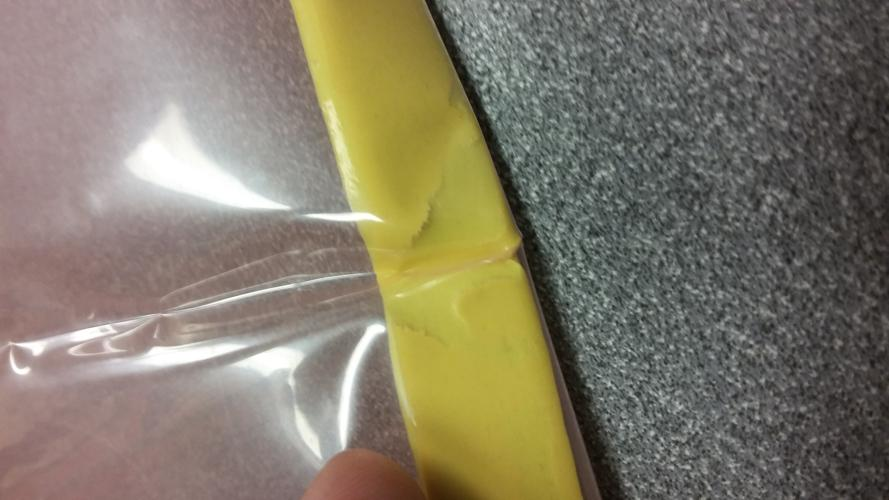
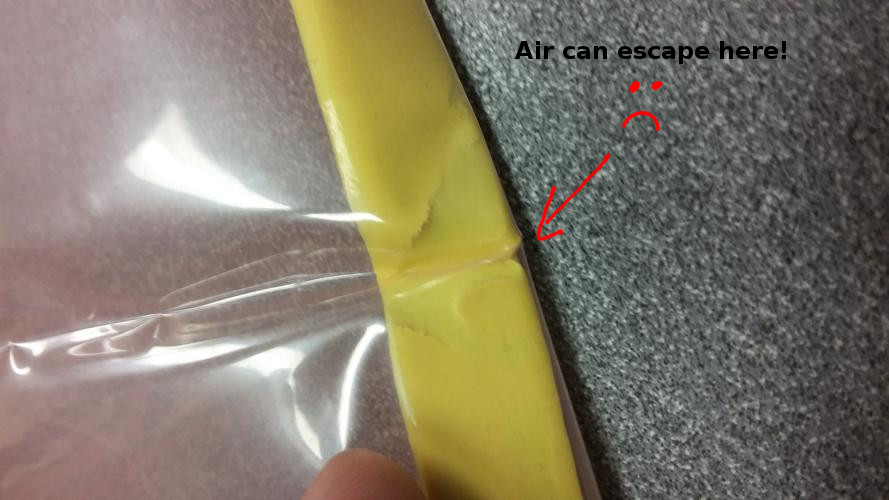
updated module MFG procedure and README

diff --git a/doc/mfg/moduleProcedure.md b/doc/mfg/moduleProcedure.md
@@ -1,30 +1,50 @@
 # Carbon Fiber Layup Procedure
 ----------------------------
-This is the procedure to make a cylindrical module. If you find any steps which are unclear, erroneous, unnecessary, or need improvement, please add an issue for it on this repo. 
+This is the procedure to make a cylindrical module. If you find any steps which are unclear, erroneous, unnecessary, or need improvement, please [add an issue for it on this repo](https://github.com/psas/lv3.0-airframe/issues). 
+
+This procedure takes about 5 hours, if you have 3 people working on it, not counting the 5 hour cure cycle. If you're following this procedure for the first time, it's probably going to be closer to 7 or 8 hours. If you *really* know what you're doing, one person can do it, but it's not nice to make one person work for 10 hours straight. If you're trying modifications to this procedure, it's a good idea to do so on a smaller mandrel with no coupling rings, since that takes off a lot of the time. 
 
 ## Materials
 
+#### Consumables
 1. [Orca skin](http://www.fiberlay.com/upload/techd-2522041-252204_OrcaSkin_Data.pdf)
 1. [Orca seal](https://www.google.com/url?q=http://www.fiberlay.com/upload/techd-252203-252203_OrcaSeal_Data.pdf&sa=D&ust=1465469878478000&usg=AFQjCNHsERyZyLExl99CyF9hUNt7pAivVQ)
 1. Shrink tape
 1. Non-perforated release film
 1. Vacuum bag sheets
-1. Vacuum bagging tape
+1. Vacuum bagging tape ("goop tape")
 1. Vacuum bagging breather material
-1. Vacuum pump (of some sort)
-1. Air hose
 1. 320 grit sandpaper
 1. 600 grit sandpaper
 1. 1500 grit sand paper
 1. Acetone
 1. Powderless nitrile gloves
-1. Insulated gloves (gardening gloves will work)
-1. A small piece of  acrylic (optional)
+1. A small piece of  acrylic (optional)
 1. Paper towels
+1. kapton tape or flash tape
+
+#### Layup Pieces
+1. Prepreg carbon fiber (Satin weave is preferable. Anything but unidirectional will do. We use Cytec BMS 8-297 3K-70-PW TY4 CL2, which is the big yellow roll in the EB 480 freezer.)
+1. Structural adhesive (We use Cytec's **Meltbond 1515**-3M, which bonds to CF, nomex, and aluminum. We know that 3M's AF-126 **DOES NOT WORK.**)
+1. A male coupling ring (aluminum)
+1. A female coupling ring
+1. 1/4" thick overexpanded nomex honeycomb
+1. A male dummy ring
+1. A female dummy ring
+1. An aluminum mandrel
+
+#### Tools
+1. Vacuum pump (we use a venturi pump)
+1. Air hose
+1. Insulated gloves (gardening gloves will work)
 1. Utility knife
 1. Scissors
+1. Mandrel-to-dummy ring screws (what size?)
+1. Dummy ring-to-coupling ring screws (what size?)
 
 ## Preparation
+
+All of these steps can be done in parallel. If you have the space and people, you should do them in parallel. 
 
 ### Mandrel preparation
 
@@ -40,13 +60,14 @@ In the figure below is shown the waxed mandrel along with a container of Orca Sk
 1. Apply 7 coats of orca skin, 10 minutes between coats
 1. Wait 1 hour
 
- ![the waxed mandrel on the preparation table, along with a container of Orca Skin, and Orca Seal.](../img/skinnedMandrel.jpg)
+ ![the waxed mandrel on the preparation table, along with a container of Orca Skin, and Orca Seal.](../img/skinnedMandrel.jpg)
 
 #### Dummy ring preparation
 
 1. Wet sand with 600 grit paper to remove any stray adhesive from the previous layup
 1. Clean with acetone or water
 1. Apply mold release to the female dummy ring
+1. Apply a strip of kapton or flash tape to the female dummy ring, so that it overhangs the outside edge of the coupling end by 1 or 2 mm. 
 
 ### Coupling ring preparation
 
@@ -67,26 +88,38 @@ These steps are best done while you're waiting for the anti-galvanic juice to ch
 1. Select the appropriate cutting template for the desired film or fabric
 1. Lay the film or fabric over the plastic surface of the work bench
 1. Place the template over the film or fabric
-1. While one person moderately presses down on the template, another person should cut along the edges with a utility knife. It also works well to place weights on the templates while cutting.
+1. While one person moderately presses down on the template, another person should cut along the edges with a utility knife. It also works well to place weights on the templates while cutting, especially when cutting the adhesive.  
+![using weights to keep the adhesive template from slipping](../img/templateWeights.jpg)  
+1. Lift up the outside portion of the cut before removing the template, to check that the cut is complete. If it isn't, slice the remaining material. 
+![carbon fiber being lifted away from the template, showing that the cut around the corner is complete](../img/templateCutCheck.jpg)  
+1. Cut 1/4" x 20" strips of adhesive for each coupling ring. Make sure they are no wider than 1/4".
+    1. This can easily be done by placing the edge of a template on a **straight-cut** piece of adhesive and using the depth gauge of a pair of calipers to tweak and check the width of a strip. 
 
-When cutting the overexpanded nomex honeycomb core material, make sure the template is oriented correctly. You should only be cutting single rows of cells (don't cross from one row to another). The overexpanded cells only bend in one direction. Make sure the template is oriented so that the nome will be able to bend around the cylinder.
+When cutting the overexpanded nomex honeycomb core material, make sure the template is oriented correctly! The overexpanded cells only bend in one direction. Make sure the template is oriented so that the nomex will be able to bend around the cylinder. You should only be cutting single rows of cells (don't cross from one row to another).
+
+To cut the carbon fiber, it works well the place the corner of the template on the corner of one of the cells (you'll have to remove one of the layers of peel ply). The template can then be rotated so that it perfectly lines up with the rows and columns of the fabric. This doesn't really work with fiberglass. 
 
 ## Assembly
+
+These steps basically all have to be done in series. The layup table really only accommodates 2 or 3 people, so just switch out people as appropriate.  
 
 ### Layers
 
 Shown below are two stages in the layup process. figure 2 shows the mandrel has been sanded and chemically treated. The first wrap around layer of release film has been added. In figure 3 below the first layer of carbon fiber has been added over the release film.
 
-1. Put on powderless nitrile gloves
-1. Screw the coupling rings into the dummy rings
+1. Put on *powderless* nitrile gloves
+1. Screw the coupling rings into the dummy rings, puncturing the layer of tape applied to the female ring.  
+![a screw going through a layer of flash tape to attach the female dummy ring to the male coupling ring](../img/screwThroughTape.jpg)  
+1. Cover all the screw heads with kapton tape. This will prevent any epoxy or adhesive from flowing into them.
 1. Without touching the molding surface of the mandrel, slide the ring assemblies on to the mandrel
-1. Screw the dummy rings to the mandrel
+1. Screw the dummy rings to the mandrel. It works best to place the mandrel upright, with one person sliding down the dummy+coupling ring from the top and another person fastening the screws. 
 1. Place the mandrel back on the mandrel holder
-1. Lay a layer of blue release film on the mandrel. It should span the entire molding surface of the mandrel and not overlap with the coupling rings (figure 2).
-![mandrel wrapped in release tape](../img/mandrelReleaseFilm.jpg)
-1. Lay the adhesive strips onto the lower adhering surface of each coupling ring. Make sure that the adhesive strips are slightly skinnier than the adhering surface of the coupling rings to prevent adhesive from flowing onto the mandrel.
-1. Lay the inner layer of carbon fiber onto the mandrel. It should overlap the adhesive strips completely, butting up flush against the step of the rings (figure 3). It should overlap itself by about an inch. Don’t worry too much about small wrinkles, they will be automatically smoothed during the cure cycle. Do not tug or pull on the CF in an attempt to remove wrinkles. If you need to remove large wrinkles, re-lay the CF instead.
-![The first layer of carbon fiber added to the layup](../img/placeHolder.jpg)
+1. Lay a layer of blue release film on the mandrel. It should span the entire molding surface of the mandrel and not overlap with the coupling rings. (This can be done by cutting the release film with the inner layer template and removing 3/4")
+![mandrel wrapped in release film](../img/mandrelReleaseFilm.jpg)
+1. Lay the adhesive strips onto the lower adhering surface of each coupling ring. Make sure that the adhesive strips are no larger than 1/4". The extra 1/8" of flange is to prevent the adhesive from flowing onto the mandrel when hot.  
+![a 1/4" strip of Meltbond 1515-3 adhesive on the female coupling ring](../img/layupBeforeCF.jpg)  
+1. Lay the inner layer of carbon fiber onto the mandrel. It should overlap the adhesive strips completely, butting up flush against the step of the rings (see below). It should overlap itself by about an inch. Don’t worry too much about small wrinkles, they will be automatically smoothed during the cure cycle. Do not tug or pull on the CF in an attempt to remove wrinkles. If you need to remove large wrinkles, re-lay the CF instead.
+![The first layer of carbon fiber added to the layup](../img/layupDuringFirstCF.jpg)
 1. Lay the inner adhesive layer over the carbon fiber. Rotating the mandrel while someone holds down the adhesive (wear powderless nitrile gloves) works well here.
 1. Once the adhesive is well aligned, peel a section of it back. Someone should still be holding it down.
 1. Roll the adhesive back down onto the carbon fiber
@@ -105,13 +138,23 @@ Shown below are two stages in the layup process. figure 2 shows the mandrel has 
 
 ### Shrink Tape
 
+1. If you're using perforated shrink tape:
+    1. Cover the layup in a layer of release film, enough to overlap itself and the coupling rings by at least 1/2". If you don't do this, the module will end up with "goosebumps," which make the shrink tape much harder to remove and the module much harder to sand.  
+    ![goosebumps poking through the perforated tape](../img/gooseBumps.jpg) 
+1. If you're using shrink tape with no built-in release compound:
+    1. Cover the layup in a layer of release film, enough to overlap itself and the coupling rings by at least 1/2". If you don't do this, the shrink tape will bond to the outer layer, making removal and sanding basically impossible.   
+    1. Tape-down that layer with some kapton at the ends and in the middle.   
+    Note: It may work better to use peel-ply instead of release film for this step. It's worth investigating.
 1. Arrange the shrink tape on a spool so that the outer surface may be easily applied to the layup. (underhand from the spool; overhand onto the layup)
 1. Set up a lamp, illuminating the layup.
 1. Use kapton or flash tape to fix the shrink tape onto one of the dummy rings. Use lots of tape to fix it in place. If it comes loose, the layup will be ruined.
 1. Use your dominant hand to tension the shrink tape against the layup.
 1. Use your off hand to rotate the layup, wrapping the shrink tape around it.
-1. Adjust the position of your dominant hand so that each turn of the shrink tape overlaps the previous one by 50%. This should result in the appearance that the surface is covered in a single sheet of double-thick shrink tape. If there are any gaps or triple-overlaps, you must roll the layup backwards and redo those sections. Such defects will become ribbing in the final module.
-1. Every 3 or 4 rotations, add a piece of kapton or flash tape to save your progress. Adjust the positions of the lamp and tape spool to your convenience as you go.
+1. Adjust the position of your dominant hand so that each turn of the shrink tape overlaps the previous one by 50%. This should result in the appearance that the surface is covered in a single sheet of double-thick shrink tape. If there are any gaps or triple-overlaps, you must roll the layup backwards and redo those sections. Such defects will become ribbing in the final module.  
+![This is too much overlap. Don't do this!](../img/overlappingTape.jpg)  
+![This is not enough overlap. Don't do this!](../img/underlappingTape.jpg)  
+1. Every 3 or 4 rotations, add a piece of kapton or flash tape to save your progress. Adjust the positions of the lamp and tape spool to your convenience as you go.  
+![A piece of kapton tape preventing the shrink tape from unraveling.](../img/tapeCheckpoint.jpg)  
 1. When you reach the end of the opposite dummy ring, cut the shrink tape and securely fix it to the dummy ring using kapton or flash tape.
 1. Add 3 strips of kapton or flash tape spanning the entire length of the module to fix the shrink tape against nudges during the vacuum bagging process.
 1. If you are using perforated shrink tape, add a layer of non-perforated release film to the outside of the layup, using kapton or flash tape to hold it in place.
@@ -139,9 +182,9 @@ After adding the final layer of release film, the layup is ready to be vacuum ba
 1. Carefully apply goop tape to the vacuum hose, so that it may seal to the tubes
 1. Carefully apply a ring of goop tape to the inner surface of the outer tube
 1. Seal the inner and outer tubes to each other
-1. Gently pinch any air channels out of the goop tape, taking special care to make sure the hose and tubes form a complete seal. Make sure there is no air channel formed by the overlap of the outer tube with itself.
-
-![layup wrapped in final layer of release tapeand ready to be vacuum bagged.](../img/placeHolder.jpg)
+1. Gently pinch any air channels out of the goop tape, taking special care to make sure the hose and tubes form a complete seal. Make sure there is no air channel formed by the overlap of the outer tube with itself.  
+![An example of an incomplete seal in the vacuum bag.](../img/badSeal.jpg)  
+![layup wrapped in final layer of release tape and ready to be vacuum bagged.](../img/placeHolder.jpg)
 
 ## Curing
 
@@ -170,23 +213,23 @@ After adding the final layer of release film, the layup is ready to be vacuum ba
 1. Remove the hose, diaper, and release film from the mandrel and dispose of them
 1. Unscrew the dummy rings from the mandrel
 1. Place the layup vertically on the table and slide the module up. It should easily slide off. If it doesn’t wait until it cools to room temperature. If it still does not come loose:
-1.
-1. Place four mandrel removal blocks on the floor
-1. Place the mandrel in the blocks, using insulated gloves
-1. Place a piece of wood on the top of the mandrel
-1. Tap the piece of wood with a hammer to release the mandrel from the module
-1. With one person holding the mandrel with insulated gloves, gently pull and wiggle the module off the mandrel in the direction of the male ring. Take care not to damage the module or mandrel. If necessary, run cold water through the inside of the mandrel. This will thermally shrink the mandrel, allowing it to slide off easier.
-1. If the module remains stuck, place it on a piece of plywood with the removal blocks holding it up.
-1. Place the wooden plug inside the mandrel on top.
-1. Place a 2x4 on the plug
-1. Hammer on the 2x4 with a large weight (\~50 lb) to slowly separate the mandrel and module. Stack chunks of 2x4 under the removal blocks to get more height.
-1. If you need to do this, you did something wrong with the mold release and/or release film.
-1.
+    1. Place four mandrel removal blocks on the floor
+    1. Place the mandrel in the blocks, using insulated gloves
+    1. Place a piece of wood on the top of the mandrel
+    1. Tap the piece of wood with a hammer to release the mandrel from the module
+    1. With one person holding the mandrel with insulated gloves, gently pull and wiggle the module off the mandrel in the direction of the male ring. Take care not to damage the module or mandrel. If necessary, run cold water through the inside of the mandrel. This will thermally shrink the mandrel, allowing it to slide off easier.
+    1. If the module remains stuck, place it on a piece of plywood with the removal blocks holding it up.
+    1. Place the wooden plug inside the mandrel on top.
+    1. Place a 2x4 on the plug
+    1. Hammer on the 2x4 with a large weight (~50 lb) to slowly separate the mandrel and module. Stack chunks of 2x4 under the removal blocks to get more height.
+    1. If you need to do this, you did something wrong with the mold release and/or release film.
 1. Place the mandrel back on the mandrel holders on the workbench
 1. Remove the blue perforated release film from the inside of the module
 
 ## Results
 
-If done properly, this should result in a module with maybe a few thin creases from flaws in the shrink tape. Adhesive-surfaced modules should be finished with 600 and 1500 grit wet sanding. (do not submerge!)
+If done properly, this should result in a module with maybe a few thin creases from flaws in the shrink tape. Adhesive-surfaced modules should be finished with 600 and 1500 grit wet sanding. (do not submerge!)  
+![Final carbon fiber rocket module](../img/LU16.10wide.jpg)  
 
-![Final carbon fiber rocket module](../img/placeHolder.jpg)
+### TODO:
+Documentation of the sanding should be added when it's actually been done.

diff --git a/README.md b/README.md
@@ -1,29 +1,38 @@
 [//]: # " vim: set nonumber tabstop=4: "
 
-# PSAS Launch Vehicle 3 "LV3" CAD Files
+# PSAS Launch Vehicle 3 (LV3)
 
-This is the repo for the LV3 airframe. This holds everything you need to know about making a rocket out of carbon fiber.  
+This is the repo for the LV3 airframe. This holds everything you need to know about making a rocket out of carbon fiber. This includes CAD files, design and prototyping logs, simulation and testing data, most of all the manufacturing procedures for the carbon fiber airframe modules.  
+
 If you aren't allowed to push, send Andrew your Github username and ask him to give you access. (This is different from getting added to the PSAS "organization".)
+
+If you're looking to copy or build on this work check out the [doc directory](/doc/), especially the [layup procedure](/doc/mfg/moduleProcedure.md) and please message the people who have committed frequently/recently with any questions (or better yet, [make an issue with your question](https://github.com/psas/lv3.0-airframe/issues)).
 
 ![](https://github.com/psas/lv3.0-airframe/blob/master/cad/LV3.JPG)
 
 ## Todo:
-[Check out the issues list if you're looking for something to do.](https://github.com/psas/lv3.0-airframe/issues) This to-do is usually out of date. 
+[Check out the issues list if you're looking for something to do.](https://github.com/psas/lv3.0-airframe/issues) This to-do is usually out of date and is meant to give an idea of what needs to happen for the project to progress. If you see something that needs to be added, modified, or checked off, please do so. 
 
 - Fin can
     - [ ] Practice the tip-to-tip on the existing fin can.
-	- [ ] Cut out the frames (Peter)
+	- [X] Cut out the frames (Peter)
+	   - [ ] Cut the leading/trailing edges on the frames
+	- [ ] Cut out the fin jigs
+		- [ ] figure out how/where we can manufacture such a large plate (would probably work on @petermccloud's machine!)
 	- [ ] MFG first fin can
+		- [ ] re-test the fin brackets from the 2014 capstone for feasibility 
 	    - [ ] layup test fins (one at a time, until it's good)
 		- [ ] layup fins onto fin can
 - Nose
 	- [ ] Design templates for CF sections
-	- [ ] do a small-scale test of MFG a composite mold
-		- [ ] test porosity of a many-layered section
-		- [ ] test feasability of laying up on sharp corners
+	- [X] do a small-scale test of MFG a composite mold
+		- [X] test porosity of a many-layered section
+		- [X] test feasability of laying up on sharp corners
+		- [ ] try making a mold with a layer of gel coat
+		- [ ] try another layup in the tiny mold with more release agent
 - MFG procedures
-	- [ ] Add pictures to the MFG procedures.
-	- [ ] Review procedures (not Joe)
+	- [X] Add pictures to the MFG procedures.
+	- [X] Review procedures (not Joe)
 	- [ ] document problems/decisions relating to the nose mold
 - Radome
 	- [X] Make a FG layup. 
@@ -32,35 +41,45 @@ If you aren't allowed to push, send Andrew your Github username and ask him to g
 - Modules
     - [ ] sand modules
     - Surface roughness
-        - [ ] Read AIAA paper (not gonna post it. You can email Joe if you want it.)
+        - [ ] Read AIAA paper (not gonna post it. You can email @Joedang if you want it.)
         - [ ] [Read NASA paper](http://ntrs.nasa.gov/archive/nasa/casi.ntrs.nasa.gov/19660028009.pdf)
-    - [ ] Make decision (convert black modules? Abandon blue modules?)
+    - [ ] Make decision (convert black modules? ~~Abandon blue modules?~~)
 - [X] AIAA paper
 - Miscellaneous
-	- [ ] Move all deliverable-related things from the Google Drive into this repo. 
+	- [X] Move all deliverable-related things from the Google Drive into this repo. 
 	- [ ] Schedule tensile test with Chinh
 
-Person		|	Role
-----------------|-----------
-Joe Shields		|	project coordination; MFG
-Leslie Elwood	|	nose; materials
-Alex Farias		|	MFG; design
-Ian Zabel		|	cradle design; modelling
-Kyle Blakeman   |   module sanding 
-Peter McCloud   |   fin frames
-Jorden Rolland	|	???
-Katia 			|	machining
-Marie House		|	
+## Project Members
+
+If you're working on the project in any way, please add yourself to this list.
+
+IRL Name			|	Github username	|	Current Role
+----------------|--------------------|-----------
+Joe Shields		|	@Joedang			|	project coordination; MFG; design
+Leslie Elwood	|	@lelwood			|	
+Alex Farias		|	@alexkazam		|	MFG
+Ian Zabel		|	@IanZabel		|	cradle design; modelling
+Kyle Blakeman	|					|   
+Peter McCloud	|	@petermccloud	|   CNC machining
+Jorden Rolland	|					|	
+Katia			|					|	
+Marie House		|					|	
+Adam Harris		|					|   MFG
+Josh Carlson		|	@paperman5		|   CNC machining; design
+Jacob Tiller		|	@JacobTiller		|   Machining; design
+Erin Schmidt		|	@7deeptide		|	System integration; design
+Nathan Bergey	|	@natronics		|	
 
 ## What and where
 
 	|-- cad							holds the Solidworks files for all the machined parts
 	|   |-- finCan
+	|	|	`- LongFinFiles			current fin design (flyable and manufacturable)
 	|   |-- module
 	|   |-- nose
 	|   |-- radome
 	|   `-- railSled
-	|       `-- CAM					G code for the rail sled
+	|       `-- CAM					G code for the rail sled (obsolete)
 	|           |-- Base
 	|           |-- Neck
 	|           `-- Trunk
